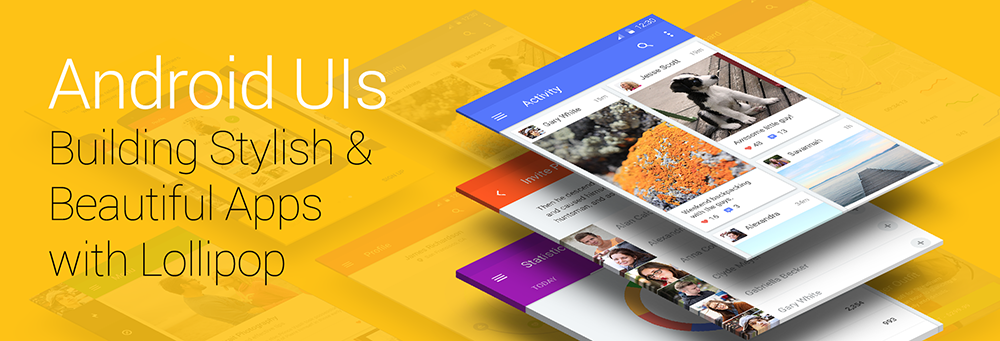
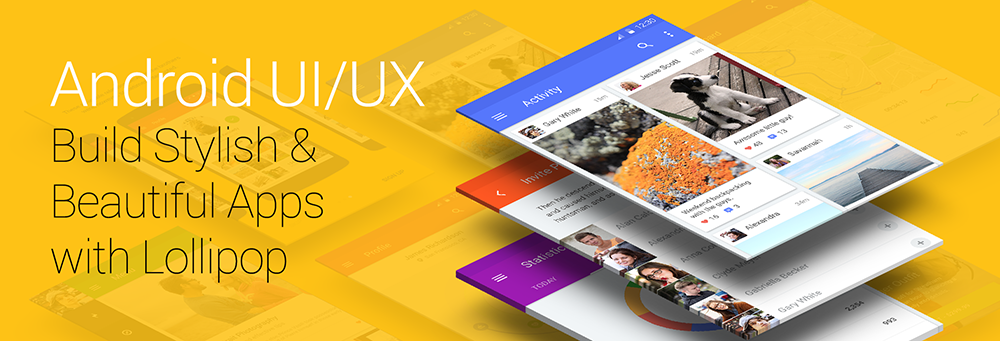
[Readme] Update course title.

Changed region(s): [[0.031, 0.3812, 0.372, 0.6745], [0.031, 0.176, 0.434, 0.3226], [0.031, 0.7038, 0.31, 0.8211]]

diff --git a/README.md b/README.md
@@ -1,5 +1,5 @@
-# Android UIs: Building Stylish &amp; Beautiful Apps with Lollipop
-Source Code for [Android UIs: Building Stylish & Beautiful Apps with Lollipop] course on Udemy.
+# Android UI/UX - Build Stylish &amp; Beautiful Apps with Lollipop
+Source Code for [Android UI/UX - Build Stylish & Beautiful Apps with Lollipop] course on Udemy.
 
 [<img src="/Artwork/Cover Image.png">](http://udemy.com/android-uis-building-stylish-and-beautiful-apps)
 
@@ -11,6 +11,6 @@ Contents
 2. [First Custom View - Circular Progress Bar] - 1 hr 15 mins
   * Create your first custom view, inflate it from an XML layout, add custom XML attributes, animate graphics and colors using `ViewAnimator` and handle backward compatibility.
 
-  [Android UIs: Building Stylish & Beautiful Apps with Lollipop]: http://udemy.com/android-uis-building-stylish-and-beautiful-apps
+  [Android UI/UX - Build Stylish & Beautiful Apps with Lollipop]: http://udemy.com/android-uis-building-stylish-and-beautiful-apps
   [Using Navigation Drawers]: https://github.com/codeherenow/android-uis/tree/master/Section%2001%20-%20Navigation%20Drawer
   [First Custom View - Circular Progress Bar]: https://github.com/codeherenow/android-uis/tree/master/Section%2002%20-%20Circular%20Progress%20Bar
